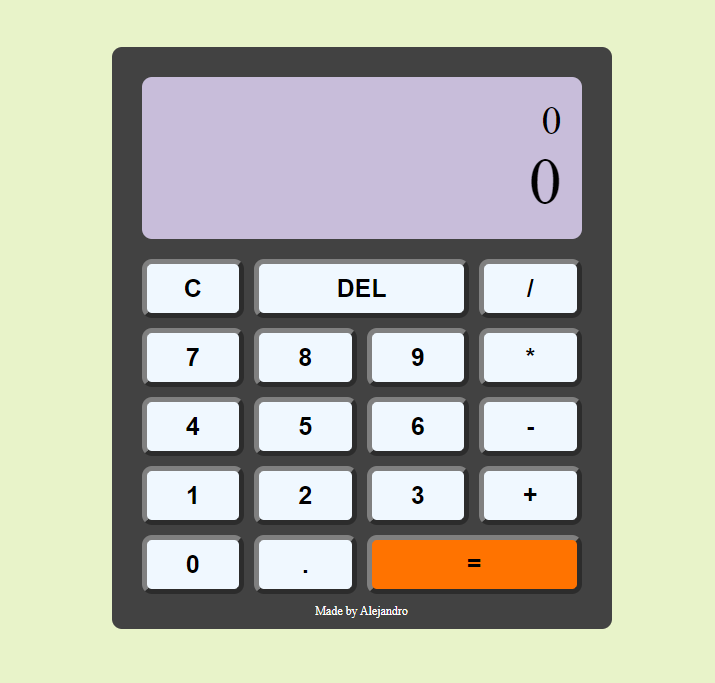
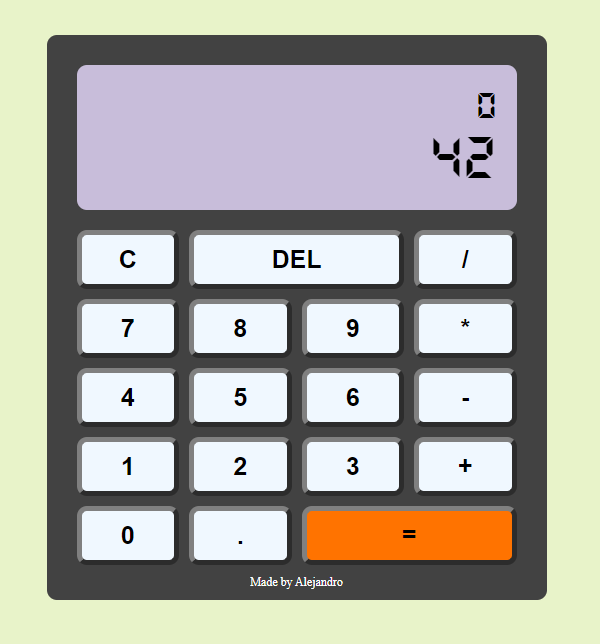
fix screen

diff --git a/06-Calculator/style.css b/06-Calculator/style.css
@@ -1,3 +1,11 @@
+@font-face {
+    font-family: "DS-DIGI";
+    src: url("../fonts/DS-DIGIB.TTF");
+    font-weight: normal;
+    font-style: normal;
+  }
+  
+
 :root {
     --primary: #424242;
     --secundary: aliceblue;
@@ -58,7 +66,7 @@ body {
     margin-bottom: 20px;
     border-radius: 10px;
     font-size: 65px;
-    /* font-family: ; */
+    font-family:"DS-DIGI";
 }
 
 #calculator > .ops > [data-op-1] {
